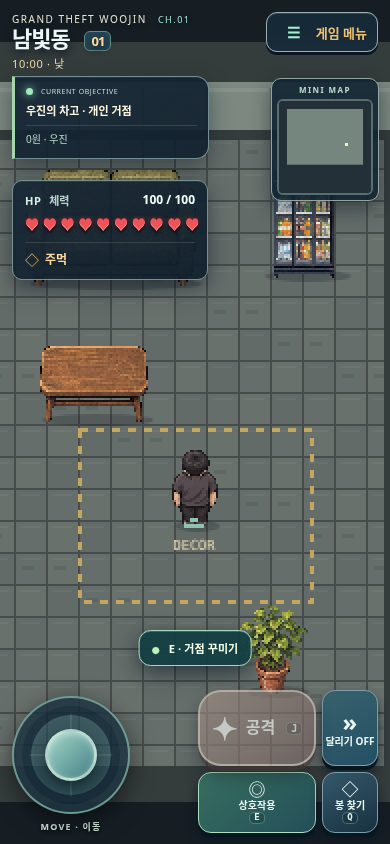
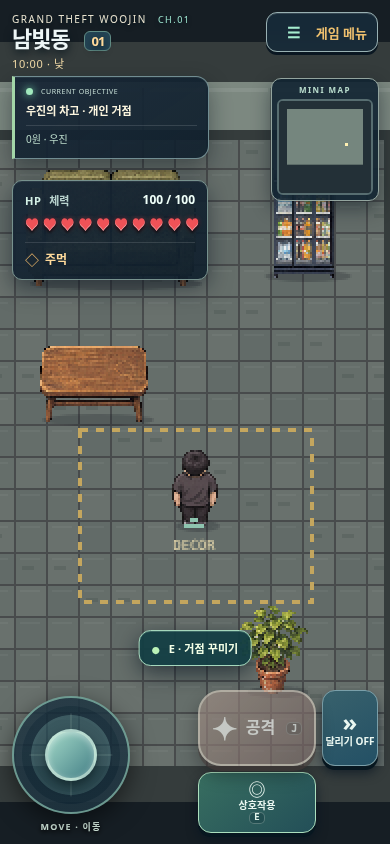
Add typed motorcycle and delivery van fleet with safe garage selection and legacy sedan saves

Changed region(s): [[0.8, 0.8934, 0.9846, 0.9858]]

diff --git a/dist/city.js b/dist/city.js
@@ -1,8 +1,10 @@
 'use strict';
 (async()=>{try{await CitySprites.ready}catch(error){document.getElementById('artLoading').textContent=error.message+' 새로고침해서 다시 시도해줘.';return}document.getElementById('artLoading').hidden=true;const S=CitySprites;const $=id=>document.getElementById(id),canvas=$('city'),ctx=canvas.getContext('2d'),A=CityArt,R=A.R,SIZE=1200,KEY='gtw-city-v1';let zoom=2,active=true,paused=false,last=0,acc=0,clock=0,saveClock=0,audio,sprintEnabled=false;
-const keys={},joy={x:0,y:0},camera={x:0,y:0},p={x:250,y:355,vx:0,vy:0,dir:2,walk:0,emotion:0},car={x:445,y:320,a:0,speed:0},state={mission:0,money:0,driving:false},buildings=[{x:110,y:130,w:250,h:170,color:'#46786c',name:'NAMBIt 24 · 편의점'},{x:650,y:120,w:310,h:190,color:'#a77e62',name:'NAMBIT RECORDS'},{x:115,y:700,w:250,h:210,color:'#677a8b',name:'남빛 주택'},{x:730,y:740,w:300,h:200,color:'#9a755e',name:'WOOJIN GARAGE'}],trees=[{x:700,y:510},{x:1030,y:530},{x:1010,y:650},{x:700,y:660},{x:110,y:460},{x:220,y:490}],npcs=[{name:'민수',x:290,y:340,home:{x:290,y:340},coat:'#bc9168',dir:2,wait:2,route:[[290,340],[340,340]],i:0},{name:'지수',x:850,y:640,home:{x:850,y:640},coat:'#a88b9c',dir:3,wait:0,route:[[850,640],[940,640],[940,570],[850,570]],i:0},{name:'도윤',x:190,y:970,home:{x:190,y:970},coat:'#6e8fae',dir:0,wait:0,route:[[190,970],[340,970]],i:0}];
+let car={x:445,y:320,a:0,speed:0};
+const keys={},joy={x:0,y:0},camera={x:0,y:0},p={x:250,y:355,vx:0,vy:0,dir:2,walk:0,emotion:0},state={mission:0,money:0,driving:false},buildings=[{x:110,y:130,w:250,h:170,color:'#46786c',name:'NAMBIt 24 · 편의점'},{x:650,y:120,w:310,h:190,color:'#a77e62',name:'NAMBIT RECORDS'},{x:115,y:700,w:250,h:210,color:'#677a8b',name:'남빛 주택'},{x:730,y:740,w:300,h:200,color:'#9a755e',name:'WOOJIN GARAGE'}],trees=[{x:700,y:510},{x:1030,y:530},{x:1010,y:650},{x:700,y:660},{x:110,y:460},{x:220,y:490}],npcs=[{name:'민수',x:290,y:340,home:{x:290,y:340},coat:'#bc9168',dir:2,wait:2,route:[[290,340],[340,340]],i:0},{name:'지수',x:850,y:640,home:{x:850,y:640},coat:'#a88b9c',dir:3,wait:0,route:[[850,640],[940,640],[940,570],[850,570]],i:0},{name:'도윤',x:190,y:970,home:{x:190,y:970},coat:'#6e8fae',dir:0,wait:0,route:[[190,970],[340,970]],i:0}];
 const obstacles=buildings.map(b=>({x:b.x,y:b.y+12,w:b.w,h:b.h})).concat(trees.map(t=>({x:t.x+19,y:t.y+37,w:9,h:17})),[{x:780,y:580,w:60,h:12},{x:100,y:345,w:16,h:24}]);buildings.forEach((b,i)=>b.art=i<2?S.images[i===0?'store':'records']:A.building(b.w,b.h,b.color,b.name));npcs.forEach((n,i)=>{n.id='civilian-'+i;n.role=['npc-1','npc-2','npc-0'][i];n.walk=0;n.moving=false});npcs[2].x=185;npcs[2].y=342;npcs[2].route=[[185,342],[225,342]];npcs[2].home={x:185,y:342};
 npcs.push(...CityResidents.make());
+const fleet=CityVehicles.create({sedan:car,blocked:worldBlocked});car=fleet.active;
 let activeResident=null;
 const cityTime=CityTime.create(),rooms=CityInteriors.create();
 let interiorService=false;
@@ -19,45 +21,48 @@ function canAttack(){return !rooms.current&&!rooms.busy&&active&&!paused&&$('dia
 function attack(){if(!canAttack())return false;const x=(keys.d||keys.ArrowRight?1:0)-(keys.a||keys.ArrowLeft?1:0)+joy.x,y=(keys.s||keys.ArrowDown?1:0)-(keys.w||keys.ArrowUp?1:0)+joy.y;const dir=Math.hypot(x,y)>.15?(Math.abs(x)>Math.abs(y)?x>0?1:3:y>0?2:0):p.dir;const accepted=combat.attack(dir);if(accepted)p.gesture=p.emotion=0;return accepted}
 function changeWeapon(){if(!canAttack())return;if(!combat.clubUnlocked){combatView.show('남쪽 골목 대련장 입구의 공구함에서 나무봉을 가져와.');return}if(combat.setWeapon(combat.weapon==='fist'?'club':'fist')){combatView.show(combat.weapon==='club'?'나무봉 · 넓은 범위, 긴 준비와 회복':'주먹 · 빠른 준비와 회복');save()}hud()}
 
-function blocked(x,y,r=8){return rooms.current?rooms.blocked(x,y,r):worldBlocked(x,y,r)}
+function exteriorBlocked(x,y,r=8,ignore){return worldBlocked(x,y,r)||fleet.obstructed(x,y,r,ignore)}
+function blocked(x,y,r=8,ignore){return rooms.current?rooms.blocked(x,y,r):exteriorBlocked(x,y,r,ignore)}
 function worldBlocked(x,y,r=8){return x<r||y<r||x>SIZE-r||y>SIZE-r||obstacles.some(o=>x+r>o.x&&x-r<o.x+o.w&&y+r>o.y&&y-r<o.y+o.h)}
-function move(o,dx,dy,r){const n=Math.max(1,Math.ceil(Math.hypot(dx,dy)/4));let hit=false;for(let i=0;i<n;i++){if(!blocked(o.x+dx/n,o.y,r))o.x+=dx/n;else hit=true;if(!blocked(o.x,o.y+dy/n,r))o.y+=dy/n;else hit=true}return hit}
-function serial(){return{version:1,p:rooms.current?{...rooms.outside,dir:2}:{x:p.x,y:p.y,dir:p.dir},interior:rooms.save(p),home:home.save(),car:{...car,speed:0},mission:state.mission,money:state.money,zoom,sound:$('sound').checked,combat:combat.save(),activities:activities.save(),worldTime:cityTime.save()}}
+function move(o,dx,dy,r){const n=Math.max(1,Math.ceil(Math.hypot(dx,dy)/4));let hit=false;for(let i=0;i<n;i++){if(!blocked(o.x+dx/n,o.y,r,o))o.x+=dx/n;else hit=true;if(!blocked(o.x,o.y+dy/n,r,o))o.y+=dy/n;else hit=true}return hit}
+function serial(){return{version:1,p:rooms.current?{...rooms.outside,dir:2}:{x:p.x,y:p.y,dir:p.dir},interior:rooms.save(p),home:home.save(),car:{...fleet.cars.find(c=>c.type==='sedan'),speed:0},vehicles:fleet.save(),mission:state.mission,money:state.money,zoom,sound:$('sound').checked,combat:combat.save(),activities:activities.save(),worldTime:cityTime.save()}}
 function save(){try{const value=JSON.stringify(serial());localStorage.setItem(KEY+'-backup',localStorage.getItem(KEY)||value);localStorage.setItem(KEY,value);$('saveStatus').textContent='저장 완료'}catch{$('saveStatus').textContent='저장 공간을 사용할 수 없어. 이번 진행은 기기에서 보존되지 않을 수 있어.'}}
-function restore(){for(const key of[KEY,KEY+'-backup'])try{const s=JSON.parse(localStorage.getItem(key));if(s?.version!==1||!Number.isFinite(s.p?.x)||!Number.isFinite(s.p?.y))continue;if(!blocked(s.p.x,s.p.y)){p.x=s.p.x;p.y=s.p.y}if(s.car&&Number.isFinite(s.car.a)&&Number.isFinite(s.car.x)&&Number.isFinite(s.car.y)&&!blocked(s.car.x,s.car.y,30)){Object.assign(car,s.car);car.speed=0}state.mission=[0,1,2,3].includes(s.mission)?s.mission:0;state.money=Number.isFinite(s.money)?clamp(s.money,0,1e9):0;zoom=[1.5,2,3].includes(s.zoom)?s.zoom:2;$('zoom').value=zoom;$('sound').checked=s.sound!==false;combat.load(s.combat);activities.load(s.activities);cityTime.load(s.worldTime);home.load(s.home);rooms.setFurniture(home.items);rooms.load(s.interior);if(rooms.current)Object.assign(p,rooms.position);$('dayLength').value=cityTime.save().dayMinutes;return}catch{}}
+function restore(){rooms.load(null);state.driving=false;for(const key of[KEY,KEY+'-backup'])try{const s=JSON.parse(localStorage.getItem(key));if(s?.version!==1||!Number.isFinite(s.p?.x)||!Number.isFinite(s.p?.y))continue;if(!blocked(s.p.x,s.p.y)){p.x=s.p.x;p.y=s.p.y;p.dir=[0,1,2,3].includes(s.p.dir)?s.p.dir:2;p.vx=p.vy=0}fleet.load(s.vehicles,s.car);car=fleet.active;if(blocked(p.x,p.y,8)){const near=fleet.cars.find(c=>Math.hypot(c.x-p.x,c.y-p.y)<CityVehicles.types[c.type].radius+10),exit=near&&fleet.exitCandidates(near).find(e=>!blocked(e.x,e.y,9));if(exit)Object.assign(p,exit);else Object.assign(p,{x:250,y:355})}state.mission=[0,1,2,3].includes(s.mission)?s.mission:0;state.money=Number.isFinite(s.money)?clamp(s.money,0,1e9):0;zoom=[1.5,2,3].includes(s.zoom)?s.zoom:2;$('zoom').value=zoom;$('sound').checked=s.sound!==false;combat.load(s.combat);activities.load(s.activities);cityTime.load(s.worldTime);home.load(s.home);rooms.setFurniture(home.items);rooms.load(s.interior);if(rooms.current)Object.assign(p,rooms.position);$('dayLength').value=cityTime.save().dayMinutes;return}catch{}}
 function mapSize(){return rooms.current?{w:rooms.current.w,h:rooms.current.h}:{w:SIZE,h:SIZE}}
 function cameraAxis(value,size,view){return rooms.current&&size<view?(size-view)/2:clamp(value,0,Math.max(0,size-view))}
 function resize(){canvas.width=Math.max(160,Math.floor(innerWidth/zoom));canvas.height=Math.max(180,Math.floor(innerHeight/zoom));ctx.imageSmoothingEnabled=false;camera.x=cameraAxis(camera.x,mapSize().w,canvas.width);camera.y=cameraAxis(camera.y,mapSize().h,canvas.height)}
 function beep(){if(!$('sound').checked)return;try{audio??=new AudioContext();audio.resume();const o=audio.createOscillator(),g=audio.createGain();o.frequency.value=510;g.gain.value=.018;o.connect(g);g.connect(audio.destination);o.start();g.gain.exponentialRampToValueAtTime(.001,audio.currentTime+.12);o.stop(audio.currentTime+.13)}catch{}}
-function say(t){interiorService=false;activeResident=null;$('service').hidden=true;$('activityAction').hidden=true;if(!state.driving)p.gesture=.55;$('dialogText').textContent=t;$('dialog').hidden=false;clearInput();$('ok').focus?.({preventScroll:true});beep()}
+function say(t){for(const id of ['fleetSedan','fleetMotorcycle','fleetVan'])$(id).hidden=true;interiorService=false;activeResident=null;$('service').hidden=true;$('activityAction').hidden=true;if(!state.driving)p.gesture=.55;$('dialogText').textContent=t;$('dialog').hidden=false;clearInput();$('ok').focus?.({preventScroll:true});beep()}
 function closeDialog(){if($('dialog').hidden)return;$('dialog').hidden=true;interiorService=false;activeResident=null;hud();canvas.focus?.({preventScroll:true})}
 function interact(){if(paused||!active||rooms.busy||!$('dialog').hidden||p.fight.mode!=='idle')return;
-if(rooms.current){const target=rooms.target(p);if(!target)return;if(target.id==='exit'){if(rooms.exit(worldBlocked)){clearInput();save()}else combatView.show('출구 앞 공간이 막혀 있어.');return}if(target.id==='shop'){say('남빛24 직원: 주먹밥은 30원이야. 체력을 35 회복해.');interiorService=true;$('service').textContent='주먹밥 · 30원';$('service').hidden=false;return}if(target.id==='workbench'){combat.heal(100);say('내 차고야. 작업대에서 잠깐 쉬었어. 체력을 회복했어.');save();return}if(target.id==='decor'){homeView.open();return}say('차량 보관 공간이야.');return}
-const door=rooms.nearDoor(p);if(door&&!state.driving&&!combat.engaged){rooms.enter(door.id,p);clearInput();return}
+if(rooms.current){const target=rooms.target(p);if(!target)return;if(target.id==='exit'){if(rooms.exit(exteriorBlocked)){clearInput();save()}else combatView.show('출구 앞 공간이 막혀 있어.');return}if(target.id==='shop'){say('남빛24 직원: 주먹밥은 30원이야. 체력을 35 회복해.');interiorService=true;$('service').textContent='주먹밥 · 30원';$('service').hidden=false;return}if(target.id==='workbench'){combat.heal(100);say('내 차고야. 작업대에서 잠깐 쉬었어. 체력을 회복했어.');save();return}if(target.id==='decor'){homeView.open();return}say('보관 차량을 고르면 차고 앞 안전한 공간에 준비해둘게. 현재: '+CityVehicles.types[car.type].name);for(const id of ['fleetSedan','fleetMotorcycle','fleetVan'])$(id).hidden=false;return}
+
 if(state.driving){vehicle();return}
 if(combat.engaged){combatView.show('대련 중이야. 구역 밖으로 물러나면 대련을 멈출 수 있어.');return}
 if(!combat.clubUnlocked&&distance(p,{x:280,y:560})<42){combat.unlockClub();combatView.show('짧은 나무봉을 얻었어! Q / 무기 버튼으로 바꿀 수 있어.');save();hud();return}
-if(distance(p,car)<65){vehicle();hud();return}
+
 const foe=enemies.find(e=>distance(p,e)<48);if(foe){combat.start(foe);clearInput();hud();return}
 if(activities.collect(p)){combatView.show('확인 완료 · '+activities.target().name);save();hud();return}
+const door=rooms.nearDoor(p);if(door&&!state.driving&&!combat.engaged){rooms.enter(door.id,p);clearInput();return}
+if(fleet.nearest(p)){vehicle();hud();return}
 const n=npcs.filter(n=>n.fight.hp>0&&distance(p,n)<52).sort((a,b)=>distance(p,a)-distance(p,b))[0];if(n){if(n.kind){const info=CityResidents.describe(n,{state,combat});say(info.text);activeResident=n;if(info.action){$('service').textContent=info.action;$('service').hidden=false;}const id=Object.keys(CityActivities.jobs).find(id=>CityActivities.jobs[id].npc===n.kind);if(id){$('activityAction').textContent=activities.label(id);$('activityAction').hidden=false;}return;}p.dir=Math.abs(n.x-p.x)>Math.abs(n.y-p.y)?n.x>p.x?1:3:n.y>p.y?2:0;if(n===npcs[0]){if(state.mission===0){state.mission=1;say('민수: 공원 벤치 옆에 두고 온 레코드 가방 좀 가져다줄래? 사례는 500원이야.')}else if(state.mission===2){state.mission=3;state.money+=500;p.emotion=1.3;say('민수: 찾았구나! 정말 고마워. 500원을 받았어. 이제 자유롭게 동네를 둘러봐.')}else say(state.mission===3?'민수: 오늘은 덕분에 살았어. 또 보자!':'민수: 공원 벤치 오른쪽, 노란 가방이야.')}else say(n.name+': '+(n===npcs[1]?'공원에서는 천천히 걸어줘. 편의점 앞 차는 E로 탈 수 있어.':'남빛24 직원이야. 남쪽 골목의 태오에게 대련을 배울 수 있어. J로 공격하고 Q로 무기를 바꿔봐.'));save();return}
  if(state.mission===1&&distance(p,{x:860,y:600})<45){state.mission=2;p.emotion=.8;say('레코드 가방을 찾았어! 편의점 앞 민수에게 돌아가자.');save();return}
  if(distance(p,{x:235,y:318})<45)say('남빛24 · 오늘도 열려 있어. 첫 배달은 민수에게 부탁받아 봐.')}
-function vehicle(){if(rooms.current||rooms.busy)return;if(paused||!active||!$('dialog').hidden||combat.engaged||p.fight.mode!=='idle')return;if(state.driving){if(Math.abs(car.speed)>12){say('차를 멈춘 다음 내려줘.');return}const exits=[[42,0],[-42,0],[0,44],[0,-44]].map(([x,y])=>({x:car.x+x,y:car.y+y}));const e=exits.find(e=>!blocked(e.x,e.y,9));if(!e){say('내릴 공간이 없어. 조금 이동해줘.');return}p.transition={x:car.x,y:car.y,time:.35,enter:false};p.x=e.x;p.y=e.y;state.driving=false;car.speed=0;p.emotion=.5;save()}else if(distance(p,car)<65){p.transition={x:p.x,y:p.y,time:.35,enter:true};state.driving=true;p.vx=p.vy=0;p.emotion=.5;beep()}}
+function vehicle(){if(rooms.current||rooms.busy)return;if(paused||!active||!$('dialog').hidden||combat.engaged||p.fight.mode!=='idle')return;if(state.driving){if(Math.abs(car.speed)>12){say('차를 멈춘 다음 내려줘.');return}const exits=fleet.exitCandidates(car);const e=exits.find(e=>!blocked(e.x,e.y,9));if(!e){say('내릴 공간이 없어. 조금 이동해줘.');return}p.transition={x:car.x,y:car.y,time:.35,enter:false};p.x=e.x;p.y=e.y;state.driving=false;car.speed=0;p.emotion=.5;save()}else if(fleet.nearest(p)){car=fleet.select(fleet.nearest(p).id);p.transition={x:p.x,y:p.y,time:.35,enter:true};state.driving=true;p.vx=p.vy=0;p.emotion=.5;beep()}}
 function clearInput(){Object.keys(keys).forEach(k=>keys[k]=false);joy.x=joy.y=0;combat.suspend();$('stick').firstElementChild.style.transform=''}
 function pause(value){paused=value;$('pause').hidden=!paused;clearInput();if(paused)save()}
 function tick(dt){if(!active||paused||homeView.opened||!$('dialog').hidden)return;clock+=dt;cityTime.step(dt);saveClock+=dt;combatView.update(dt);if(rooms.busy){if(rooms.step(dt)){Object.assign(p,rooms.position);p.vx=p.vy=0;camera.x=cameraAxis(p.x-canvas.width/2,mapSize().w,canvas.width);camera.y=cameraAxis(p.y-canvas.height/2,mapSize().h,canvas.height);clearInput();save()}hud();return;}if(keys.attack)attack();if(p.transition)p.transition.time=Math.max(0,p.transition.time-dt);let x=(keys.d||keys.ArrowRight?1:0)-(keys.a||keys.ArrowLeft?1:0)+joy.x,y=(keys.s||keys.ArrowDown?1:0)-(keys.w||keys.ArrowUp?1:0)+joy.y;const mag=Math.hypot(x,y);if(mag>1){x/=mag;y/=mag}
- if(state.driving){const throttle=keys.brake?-1:keys.attack?1:-y;car.speed+=throttle*110*dt;car.speed*=Math.exp(-(throttle?.65:2.8)*dt);car.speed=clamp(car.speed,-50,155);car.a+=x*(Math.max(0.24,Math.abs(car.speed)/115))*1.65*dt*(car.speed<0?-1:1);const dx=Math.sin(car.a)*car.speed*dt,dy=-Math.cos(car.a)*car.speed*dt;if(move(car,dx,dy,30)){car.speed*=-.12;p.emotion=.7}p.x=car.x;p.y=car.y}else{const speed=sprintEnabled?94:57,blend=1-Math.exp(-13*dt);p.vx+=(x*speed-p.vx)*blend;p.vy+=(y*speed-p.vy)*blend;const oldX=p.x,oldY=p.y;move(p,p.vx*dt*combat.movementScale(),p.vy*dt*combat.movementScale(),8);const moved=Math.hypot(p.x-oldX,p.y-oldY);p.moving=moved>.02;if(mag>.1&&!p.fight.attack&&p.fight.mode==='idle'){p.dir=Math.abs(x)>Math.abs(y)?x>0?1:3:y>0?2:0;p.walk+=moved*.12}}
+ if(state.driving){const throttle=keys.brake?-1:keys.attack?1:-y;const {dx,dy}=fleet.motion(car,throttle,x,dt);if(move(car,dx,dy,CityVehicles.types[car.type].radius)){car.speed*=-.12;p.emotion=.7}p.x=car.x;p.y=car.y}else{const speed=sprintEnabled?94:57,blend=1-Math.exp(-13*dt);p.vx+=(x*speed-p.vx)*blend;p.vy+=(y*speed-p.vy)*blend;const oldX=p.x,oldY=p.y;move(p,p.vx*dt*combat.movementScale(),p.vy*dt*combat.movementScale(),8);const moved=Math.hypot(p.x-oldX,p.y-oldY);p.moving=moved>.02;if(mag>.1&&!p.fight.attack&&p.fight.mode==='idle'){p.dir=Math.abs(x)>Math.abs(y)?x>0?1:3:y>0?2:0;p.walk+=moved*.12}}
  if(!rooms.current)combat.step(dt);
- activities.step(dt);if(!rooms.current)for(const n of npcs)if(n.brain==='idle'&&n.fight.mode==='idle'&&!cityTime.resting(n.kind))CityResidents.step(n,dt,{player:p,combat,move});
+ activities.step(dt);if(!rooms.current)for(const n of npcs)if(n.brain==='idle'&&n.fight.mode==='idle'){if(cityTime.resting(n.kind))n.moving=false;else CityResidents.step(n,dt,{player:p,combat,move});}
  const target=state.driving?car:p,look=state.driving?car.speed*.3:0;const tx=cameraAxis(target.x+Math.sin(car.a)*look-canvas.width/2,mapSize().w,canvas.width),ty=cameraAxis(target.y-Math.cos(car.a)*look-canvas.height/2,mapSize().h,canvas.height);camera.x+=(tx-camera.x)*(1-Math.exp(-6*dt));camera.y+=(ty-camera.y)*(1-Math.exp(-6*dt));if(saveClock>5){saveClock=0;save()}hud()}
 const objectives=['편의점 앞 민수에게 말을 걸어봐.','공원 벤치 옆 레코드 가방 찾기','가방을 민수에게 전달하기','배달 완료 · 남빛동 자유 탐험'];
 function hud(){
  const timeLabel=cityTime.label();if($('worldClock').textContent!==timeLabel)$('worldClock').textContent=timeLabel;
  $('attack').disabled=!!rooms.current||rooms.busy;combatView.hud();const a=activities.active,t=activities.target();$('activityHud').hidden=!a;if(a){const title=CityActivities.jobs[a.id].name,goal=t.name+' · '+Math.floor(Math.hypot(p.x-t.x,p.y-t.y))+'m';if($('activityTitle').textContent!==title)$('activityTitle').textContent=title;if($('activityGoal').textContent!==goal)$('activityGoal').textContent=goal;}
  const objective=rooms.current?rooms.current.name:objectives[state.mission],money=state.money.toLocaleString('ko-KR')+'원 · '+(state.driving?'운전 중':'우진');
- const hint=rooms.current?(rooms.target(p)?.label||'') : !state.driving&&rooms.nearDoor(p)?'E · '+rooms.nearDoor(p).name+' 입장':state.driving?'↑ / 공격 가속 · ↓ / 브레이크 감속 · ← → 조향 · E 하차':
-   distance(p,car)<65?'E · 차량 타기':activities.active&&activities.active.index<CityActivities.jobs[activities.active.id].points.length&&distance(p,activities.target())<32?'E · 현장 확인':
+ const hint=rooms.current?(rooms.target(p)?.label||'') : !state.driving&&activities.active&&activities.active.index<CityActivities.jobs[activities.active.id].points.length&&distance(p,activities.target())<32?'E · 현장 확인':!state.driving&&rooms.nearDoor(p)?'E · '+rooms.nearDoor(p).name+' 입장':state.driving?'↑ / 공격 가속 · ↓ / 브레이크 감속 · ← → 조향 · E 하차':
+   fleet.nearest(p)?'E · '+CityVehicles.types[fleet.nearest(p).type].name+' 탑승':activities.active&&activities.active.index<CityActivities.jobs[activities.active.id].points.length&&distance(p,activities.target())<32?'E · 현장 확인':
    npcs.some(n=>n.fight.hp>0&&distance(p,n)<52)?'E · 대화하기':
    state.mission===1&&distance(p,{x:860,y:600})<45?'E · 레코드 가방 줍기':
    enemies.some(e=>distance(p,e)<48)?'E · 대련 시작 / 재도전':
@@ -67,11 +72,11 @@ function hud(){
  if($('money').textContent!==money)$('money').textContent=money;
  if($('prompt').textContent!==hint)$('prompt').textContent=hint;
  const interactLabel=$('interact').querySelector?.('.action-label');
- if(interactLabel){const label=state.driving?'하차':hint.includes('줍기')?'줍기':hint.includes('대련')?'대련':hint.includes('나무봉')?'획득':hint.includes('차량')?'탑승':hint.includes('대화')?'대화':'상호작용';if(interactLabel.textContent!==label)interactLabel.textContent=label;}
+ if(interactLabel){const label=state.driving?'하차':hint.includes('입장')?'입장':hint.includes('나가기')?'나가기':hint.includes('탑승')?'탑승':hint.includes('줍기')?'줍기':hint.includes('대련')?'대련':hint.includes('나무봉')?'획득':hint.includes('차량')?'탑승':hint.includes('대화')?'대화':'상호작용';if(interactLabel.textContent!==label)interactLabel.textContent=label;}
  const attackLabel=$('attack').querySelector?.('.action-label');if(attackLabel&&attackLabel.textContent!==(state.driving?'가속':'공격'))attackLabel.textContent=state.driving?'가속':'공격';
  const runLabel=$('run').querySelector?.('.action-label'),runText=state.driving?'브레이크':sprintEnabled?'달리기 ON':'달리기 OFF';if(runLabel&&runLabel.textContent!==runText)runLabel.textContent=runText;
  const pressed=String(!state.driving&&sprintEnabled),runButton=$('run');if(runButton.getAttribute?.('aria-pressed')!==pressed)runButton.setAttribute?.('aria-pressed',pressed);
- const weaponButton=$('weapon');if(weaponButton.hidden!==state.driving)weaponButton.hidden=state.driving;
+ const weaponButton=$('weapon'),hideWeapon=state.driving||!!rooms.current;if(weaponButton.hidden!==hideWeapon)weaponButton.hidden=hideWeapon;
  const actions=$('attack').parentElement;if(actions?.classList?.contains('driving')!==state.driving)actions?.classList?.toggle('driving',state.driving);
 }
 const ground=CityGround(A,SIZE);
@@ -86,14 +91,14 @@ const streetProps=[
 obstacles.push({x:308,y:363,w:36,h:6},{x:325,y:332,w:12,h:10},{x:660,y:542,w:12,h:10},...[ [370,350],[620,530],[80,650],[1100,400] ].map(([x,y])=>({x,y:y-2,w:5,h:6})));
 function drawPerson(n,hero=false){if(hero&&combatView.playerPose(ctx))return;const trans=hero&&p.transition?.time>0?p.transition:null;let x=n.x,y=n.y;if(trans){const a=1-trans.time/.35;x=trans.x+(n.x-trans.x)*a;y=trans.y+(n.y-trans.y)*a;ctx.globalAlpha=trans.enter?1-a:1;}if(n.civilian&&n.fight.mode==='down')ctx.globalAlpha=.32;else if(n.civilian&&n.fight.mode==='hurt')ctx.globalAlpha=.7;S.shadow(ctx,x,y,hero?11:9);const pose=trans?S.action(n.dir,trans.enter?2:3):hero&&p.gesture>0?S.action(n.dir,p.gesture>.28?0:1):hero&&p.emotion>0?S.action(n.dir,4):S.person(n.dir,n.walk,n.moving,hero&&sprintEnabled,hero?'woojin':n.role);ctx.drawImage(pose,Math.round(x)-20,Math.round(y)-44);ctx.globalAlpha=1;if(hero&&p.emotion>0){R(ctx,x-1,y-52,2,5,'#ffe4a1');R(ctx,x-1,y-45,2,1,'#ffe4a1')}}
 function transitionOverlay(){if(!rooms.busy)return;ctx.fillStyle='rgba(10,17,23,'+rooms.fade+')';ctx.fillRect(0,0,canvas.width,canvas.height)}
-function drawInterior(){CityInteriors.draw(ctx,rooms.current,{p,camera,canvas,S,drawPerson,furniture:home.items});const m=$('map').getContext('2d'),room=rooms.current;m.fillStyle='#233037';m.fillRect(0,0,144,144);const scale=120/Math.max(room.w,room.h);R(m,12,12,room.w*scale,room.h*scale,'#75867e');R(m,12+p.x*scale-2,12+p.y*scale-2,4,4,'#fff0b2');transitionOverlay()}
-function draw(){if(rooms.current){drawInterior();return}ctx.clearRect(0,0,canvas.width,canvas.height);ctx.save();ctx.translate(-Math.round(camera.x)+(combatView.impact>0?Math.round(Math.sin(clock*90)):0),-Math.round(camera.y));ctx.drawImage(ground,0,0);combatView.ground(ctx);const activityTarget=activities.target();if(activityTarget){ctx.strokeStyle='#8fcabb';ctx.lineWidth=2;ctx.setLineDash([4,3]);ctx.beginPath();ctx.arc(activityTarget.x,activityTarget.y,15,0,Math.PI*2);ctx.stroke();ctx.setLineDash([]);ctx.fillStyle='#d1f2df';ctx.font='8px monospace';ctx.textAlign='center';ctx.fillText(activities.active.index<CityActivities.jobs[activities.active.id].points.length?'E · 확인':'NPC에게 보고',activityTarget.x,activityTarget.y-23);}for(const b of buildings){ctx.fillStyle='#20233338';ctx.beginPath();ctx.moveTo(b.x+3,b.y+b.h+8);ctx.lineTo(b.x+b.w,b.y+b.h+8);ctx.lineTo(b.x+b.w+14,b.y+b.h+20);ctx.lineTo(b.x+17,b.y+b.h+20);ctx.fill()}const render=streetProps.map(o=>({y:o.foot,draw(){ctx.fillStyle='#20273530';ctx.beginPath();ctx.ellipse(o.x+o.w/2+5,o.foot-1,o.w/2,3,0,0,Math.PI*2);ctx.fill();ctx.drawImage(S.images[o.name],o.x,o.y,o.w,o.h)}}));buildings.forEach(b=>render.push({y:b.y+b.h,draw(){const behind=p.x>b.x-10&&p.x<b.x+b.w+10&&p.y>b.y-30&&p.y<b.y+20;ctx.globalAlpha=behind?.42:1;ctx.drawImage(b.art,b.x,b.y);ctx.globalAlpha=1}}));trees.forEach((t,i)=>render.push({y:t.y+52,draw(){ctx.globalAlpha=Math.abs(p.x-(t.x+24))<27&&p.y>t.y-33&&p.y<t.y+45?.4:1;S.shadow(ctx,t.x+24,t.y+52,28);const im=S.images[i%2?'tree-b':'tree-a'];ctx.drawImage(im,Math.round(t.x+24-im.width/2),t.y+52-im.height);ctx.globalAlpha=1}}));npcs.forEach(n=>render.push({y:n.y,draw(){drawPerson(n);if(n.kind&&distance(p,n)<70){ctx.font='7px monospace';ctx.textAlign='center';ctx.fillStyle='#f5dfab';ctx.fillText(n.name,Math.round(n.x),Math.round(n.y)-48)}if(n===npcs[0]&&state.mission!==3){R(ctx,n.x-2,n.y-57,3,7,'#f0cc7d');R(ctx,n.x-2,n.y-48,3,2,'#f0cc7d')}}}));render.push({y:car.y+20,draw(){ctx.save();ctx.translate(Math.round(car.x),Math.round(car.y));ctx.rotate(car.a);ctx.fillStyle='#1b243445';ctx.fillRect(-15,-25,34,58);ctx.drawImage(S.images.sedan,-17,-29);ctx.restore()}});enemies.forEach(e=>render.push({y:e.y,draw(){combatView.enemy(ctx,e)}}));if(!state.driving||p.transition?.time>0)render.push({y:p.y+1,draw(){drawPerson(p,true)}});if(state.mission===1)render.push({y:601,draw(){S.shadow(ctx,861,601,8);R(ctx,854,590,14,11,'#b98d53');R(ctx,855,591,12,8,'#d8b577');R(ctx,857,587,8,4,'#624d3e');R(ctx,859,589,4,2,'#b7a582');R(ctx,860,593,2,6,'#735a43');R(ctx,860,594,2,2,'#e4d4a2')}});render.sort((a,b)=>a.y-b.y).forEach(o=>o.draw());combatView.overlay(ctx);CityTime.draw(ctx,cityTime,{camera,width:canvas.width,height:canvas.height,lamps:streetProps.filter(o=>o.name==='lamp').map(o=>({x:o.x+2,y:o.foot-4})),buildings});ctx.restore();const m=$('map').getContext('2d'),s=144/SIZE;m.fillStyle='#8a9885';m.fillRect(0,0,144,144);R(m,390*s,0,210*s,144,'#35484e');R(m,0,395*s,144,100*s,'#35484e');buildings.forEach(b=>R(m,b.x*s,b.y*s,b.w*s,b.h*s,'#c0b395'));R(m,p.x*s-2,p.y*s-2,4,4,'#fff6ca');const at=activities.target();if(at)R(m,at.x*s-3,at.y*s-3,6,6,'#8fcabb');const goal=state.mission===1?{x:860,y:600}:npcs[0];if(state.mission!==3)R(m,goal.x*s-2,goal.y*s-2,4,4,'#e19b64');transitionOverlay()}
+function drawInterior(){CityInteriors.draw(ctx,rooms.current,{p,camera,canvas,S,drawPerson,furniture:home.items,fleetArt:CityVehicles.types[car.type].art});const m=$('map').getContext('2d'),room=rooms.current;m.fillStyle='#233037';m.fillRect(0,0,144,144);const scale=120/Math.max(room.w,room.h);R(m,12,12,room.w*scale,room.h*scale,'#75867e');R(m,12+p.x*scale-2,12+p.y*scale-2,4,4,'#fff0b2');transitionOverlay()}
+function draw(){if(rooms.current){drawInterior();return}ctx.clearRect(0,0,canvas.width,canvas.height);ctx.save();ctx.translate(-Math.round(camera.x)+(combatView.impact>0?Math.round(Math.sin(clock*90)):0),-Math.round(camera.y));ctx.drawImage(ground,0,0);combatView.ground(ctx);const activityTarget=activities.target();if(activityTarget){ctx.strokeStyle='#8fcabb';ctx.lineWidth=2;ctx.setLineDash([4,3]);ctx.beginPath();ctx.arc(activityTarget.x,activityTarget.y,15,0,Math.PI*2);ctx.stroke();ctx.setLineDash([]);ctx.fillStyle='#d1f2df';ctx.font='8px monospace';ctx.textAlign='center';ctx.fillText(activities.active.index<CityActivities.jobs[activities.active.id].points.length?'E · 확인':'NPC에게 보고',activityTarget.x,activityTarget.y-23);}for(const b of buildings){ctx.fillStyle='#20233338';ctx.beginPath();ctx.moveTo(b.x+3,b.y+b.h+8);ctx.lineTo(b.x+b.w,b.y+b.h+8);ctx.lineTo(b.x+b.w+14,b.y+b.h+20);ctx.lineTo(b.x+17,b.y+b.h+20);ctx.fill()}const render=streetProps.map(o=>({y:o.foot,draw(){ctx.fillStyle='#20273530';ctx.beginPath();ctx.ellipse(o.x+o.w/2+5,o.foot-1,o.w/2,3,0,0,Math.PI*2);ctx.fill();ctx.drawImage(S.images[o.name],o.x,o.y,o.w,o.h)}}));buildings.forEach(b=>render.push({y:b.y+b.h,draw(){const behind=p.x>b.x-10&&p.x<b.x+b.w+10&&p.y>b.y-30&&p.y<b.y+20;ctx.globalAlpha=behind?.42:1;ctx.drawImage(b.art,b.x,b.y);ctx.globalAlpha=1}}));trees.forEach((t,i)=>render.push({y:t.y+52,draw(){ctx.globalAlpha=Math.abs(p.x-(t.x+24))<27&&p.y>t.y-33&&p.y<t.y+45?.4:1;S.shadow(ctx,t.x+24,t.y+52,28);const im=S.images[i%2?'tree-b':'tree-a'];ctx.drawImage(im,Math.round(t.x+24-im.width/2),t.y+52-im.height);ctx.globalAlpha=1}}));npcs.forEach(n=>render.push({y:n.y,draw(){drawPerson(n);if(n.kind&&distance(p,n)<70){ctx.font='7px monospace';ctx.textAlign='center';ctx.fillStyle='#f5dfab';ctx.fillText(n.name,Math.round(n.x),Math.round(n.y)-48)}if(n===npcs[0]&&state.mission!==3){R(ctx,n.x-2,n.y-57,3,7,'#f0cc7d');R(ctx,n.x-2,n.y-48,3,2,'#f0cc7d')}}}));fleet.cars.forEach(c=>render.push({y:c.y+20,draw(){CityVehicles.draw(ctx,c,S,state.driving&&c===car)}}));enemies.forEach(e=>render.push({y:e.y,draw(){combatView.enemy(ctx,e)}}));if(!state.driving||p.transition?.time>0)render.push({y:p.y+1,draw(){drawPerson(p,true)}});if(state.mission===1)render.push({y:601,draw(){S.shadow(ctx,861,601,8);R(ctx,854,590,14,11,'#b98d53');R(ctx,855,591,12,8,'#d8b577');R(ctx,857,587,8,4,'#624d3e');R(ctx,859,589,4,2,'#b7a582');R(ctx,860,593,2,6,'#735a43');R(ctx,860,594,2,2,'#e4d4a2')}});render.sort((a,b)=>a.y-b.y).forEach(o=>o.draw());combatView.overlay(ctx);CityTime.draw(ctx,cityTime,{camera,width:canvas.width,height:canvas.height,lamps:streetProps.filter(o=>o.name==='lamp').map(o=>({x:o.x+2,y:o.foot-4})),buildings});ctx.restore();const m=$('map').getContext('2d'),s=144/SIZE;m.fillStyle='#8a9885';m.fillRect(0,0,144,144);R(m,390*s,0,210*s,144,'#35484e');R(m,0,395*s,144,100*s,'#35484e');buildings.forEach(b=>R(m,b.x*s,b.y*s,b.w*s,b.h*s,'#c0b395'));R(m,p.x*s-2,p.y*s-2,4,4,'#fff6ca');const at=activities.target();if(at)R(m,at.x*s-3,at.y*s-3,6,6,'#8fcabb');const goal=state.mission===1?{x:860,y:600}:npcs[0];if(state.mission!==3)R(m,goal.x*s-2,goal.y*s-2,4,4,'#e19b64');transitionOverlay()}
 function frame(now){const elapsed=last?Math.min(.1,(now-last)/1000):0;last=now;if(active&&!paused&&!document.hidden){p.gesture=Math.max(0,(p.gesture||0)-elapsed);p.emotion=Math.max(0,p.emotion-elapsed);acc+=elapsed;while(acc>=1/60){tick(1/60);acc-=1/60}draw()}else acc=0;requestAnimationFrame(frame)}
 addEventListener('keydown',e=>{
  const k=e.key.length===1?e.key.toLowerCase():e.key;
  if(homeView.opened){if(k==='Escape'){e.preventDefault();homeView.close()}return;}
  if(!$('dialog').hidden){
-  if(['service','activityAction'].includes(e.target.id)&&['Enter',' '].includes(k))return;
+  if(['service','activityAction','fleetSedan','fleetMotorcycle','fleetVan'].includes(e.target.id)&&['Enter',' '].includes(k))return;
   if(['e','Enter',' ','Escape'].includes(k)){e.preventDefault();if(!e.repeat)closeDialog();}
   return;
  }
@@ -117,6 +122,7 @@ $('interact').onclick=()=>{if(!$('dialog').hidden)closeDialog();else interact()}
 $('weapon').onclick=changeWeapon;
 $('service').onclick=()=>{if(interiorService&&rooms.current?.id==='store'){const result=CityResidents.service({kind:'vendor'},{player:p,state,combat});$('dialogText').textContent=result.text;$('service').hidden=true;save();hud();return}if(!activeResident||$('dialog').hidden||distance(p,activeResident)>52)return;const result=CityResidents.service(activeResident,{player:p,state,combat});$('dialogText').textContent=result.text;$('service').hidden=true;if(result.ok){beep();save()}hud()};
 $('activityAction').onclick=()=>{if(!activeResident||$('dialog').hidden||distance(p,activeResident)>52)return;const id=Object.keys(CityActivities.jobs).find(id=>CityActivities.jobs[id].npc===activeResident.kind);if(!id)return;const done=activities.finish(id);if(done){closeDialog();combatView.show('동네 일 완료 · '+CityActivities.jobs[id].reward+'원');}else if(activities.start(id)){closeDialog();combatView.show(CityActivities.jobs[id].name+' · 지도와 현장 표시를 따라가.');}else $('dialogText').textContent=activities.label(id);save();hud()};
+for(const [id,type]of [['fleetSedan','sedan'],['fleetMotorcycle','motorcycle'],['fleetVan','van']])$(id).onclick=()=>{if(rooms.current?.id!=='garage'||$('dialog').hidden)return;const ok=fleet.recall(type,CityInteriors.rooms.garage.door);if(ok){car=fleet.active;save();beep()}$('dialogText').textContent=ok?CityVehicles.types[type].name+' 준비 완료 · 차고 밖에서 E로 탑승해.':'차고 앞이 막혀 있어. 다른 차량을 옮긴 뒤 다시 시도해줘.';hud()};
 $('cancelActivity').onclick=()=>{activities.cancel();save();hud()};
 $('restartMission').onclick=()=>{state.mission=0;save();pause(false);hud()};
 $('dayLength').onchange=()=>{cityTime.setDayMinutes(+$('dayLength').value);save()};
@@ -126,5 +132,5 @@ $('stick').onpointerdown=e=>{e.preventDefault();if(stickPointer!==null)return;st
 let attackPointer=null;
 $('attack').onpointerdown=e=>{e.preventDefault();if(attackPointer!==null)return;attackPointer=e.pointerId;keys.attack=true;attack();try{$('attack').setPointerCapture(e.pointerId)}catch{}};
 for(const ev of ['pointerup','pointercancel','lostpointercapture'])$('attack').addEventListener(ev,e=>{if(e.pointerId===attackPointer){attackPointer=null;keys.attack=false}});
-restore();resize();camera.x=cameraAxis(p.x-canvas.width/2,mapSize().w,canvas.width);camera.y=cameraAxis(p.y-canvas.height/2,mapSize().h,canvas.height);hud();draw();requestAnimationFrame(frame);if(['localhost','127.0.0.1'].includes(location.hostname))window.cityTest={p,car,state,npcs,keys,joy,camera,blocked,move,tick,interact,vehicle,save,restore,draw,art:S,ground,combat,enemies,attack,changeWeapon,activities,cityTime,rooms,home,homeView,pause,get active(){return active},get sprintEnabled(){return sprintEnabled},get zoom(){return zoom}};
+restore();resize();camera.x=cameraAxis(p.x-canvas.width/2,mapSize().w,canvas.width);camera.y=cameraAxis(p.y-canvas.height/2,mapSize().h,canvas.height);hud();draw();requestAnimationFrame(frame);if(['localhost','127.0.0.1'].includes(location.hostname))window.cityTest={p,get car(){return car},fleet,state,npcs,keys,joy,camera,blocked,move,tick,interact,vehicle,save,restore,draw,art:S,ground,combat,enemies,attack,changeWeapon,activities,cityTime,rooms,home,homeView,pause,get active(){return active},get sprintEnabled(){return sprintEnabled},get zoom(){return zoom}};
 })();

diff --git a/dist/city-vehicles.js b/dist/city-vehicles.js
@@ -1,0 +1,28 @@
+'use strict';
+(function(root,factory){const api=factory();if(typeof module==='object'&&module.exports)module.exports=api;else root.CityVehicles=api;})(globalThis,()=>{
+ // Sedan values exactly retain the original controller. Other types share the
+ // integration, but use different acceleration, top speed, steering and footprint.
+ const types={sedan:{name:'남빛 세단',art:'sedan',accel:110,max:155,reverse:50,turn:1.65,radius:30,w:34,h:58},motorcycle:{name:'시티 바이크',art:'motorcycle',accel:185,max:195,reverse:42,turn:2.2,radius:22,w:21,h:46},van:{name:'배달 밴',art:'van',accel:78,max:125,reverse:38,turn:1.2,radius:34,w:36,h:60}};
+ const starts={sedan:{x:445,y:320,a:0},motorcycle:{x:548,y:345,a:0},van:{x:520,y:1000,a:0}};
+ function create({sedan,blocked}){let cars=[],activeId='sedan';
+  const radius=c=>types[c.type].radius;
+  const overlap=(x,y,r,ignore)=>cars.some(c=>c!==ignore&&Math.hypot(x-c.x,y-c.y)<r+radius(c)+2);
+  const free=(x,y,r,ignore)=>!blocked(x,y,r)&&!overlap(x,y,r,ignore);
+  function find(pos,r,ignore){for(const [dx,dy]of[[0,0],[70,0],[-70,0],[0,70],[0,-70],[140,0],[-140,0],[0,140],[0,-140]])if(free(pos.x+dx,pos.y+dy,r,ignore))return{x:pos.x+dx,y:pos.y+dy};return null}
+  const api={types,get cars(){return cars},get active(){return cars.find(c=>c.id===activeId)||cars[0]},
+   select(id){const c=cars.find(c=>c.id===id);if(!c)return false;activeId=id;return c},
+   nearest(p){return cars.filter(c=>Math.hypot(c.x-p.x,c.y-p.y)<radius(c)+35).sort((a,b)=>Math.hypot(a.x-p.x,a.y-p.y)-Math.hypot(b.x-p.x,b.y-p.y))[0]},
+   obstructed:overlap,
+   motion(c,throttle,steer,dt){const t=types[c.type];c.speed+=throttle*t.accel*dt;c.speed*=Math.exp(-(throttle?.65:2.8)*dt);c.speed=Math.max(-t.reverse,Math.min(t.max,c.speed));c.a=(c.a+steer*Math.max(.24,Math.abs(c.speed)/115)*t.turn*dt*(c.speed<0?-1:1))%(Math.PI*2);return{dx:Math.sin(c.a)*c.speed*dt,dy:-Math.cos(c.a)*c.speed*dt}},
+   exitCandidates(c){const r=radius(c)+13;return[[1,0],[-1,0],[0,1],[0,-1],[1,1],[-1,1],[1,-1],[-1,-1]].map(([x,y])=>({x:c.x+x*r,y:c.y+y*r}))},
+   recall(id,door){const c=cars.find(c=>c.id===id);if(!c)return false;const pos=find({x:door.x,y:door.y+66},radius(c),c);if(!pos)return false;Object.assign(c,pos,{speed:0,a:0});activeId=id;return true},
+   save(){return{selected:activeId,cars:cars.map(({id,type,x,y,a})=>({id,type,x,y,a}))}},
+   load(s,legacy){cars=[];for(const id of Object.keys(types)){const q=Array.isArray(s?.cars)?s.cars.find(c=>c?.id===id):null,old=id==='sedan'?legacy:null,raw=q&&Number.isFinite(q.x+q.y+q.a)&&!blocked(q.x,q.y,types[id].radius)?q:old||starts[id],r=types[id].radius;
+     const valid=Number.isFinite(raw?.x+raw?.y+raw?.a)&&!blocked(raw.x,raw.y,r),pos=valid?find(raw,r):null,fallback=pos||find(starts[id],r);if(!fallback)continue;
+     const c=id==='sedan'&&sedan?sedan:{};Object.assign(c,{...fallback,id,type:id,a:pos&&Number.isFinite(raw.a)?raw.a%(Math.PI*2):0,speed:0});cars.push(c);
+    }activeId=cars.some(c=>c.id===s?.selected)?s.selected:'sedan';}
+  };api.load(null,sedan);return api;
+ }
+ function draw(ctx,c,S,driving=false){const t=types[c.type],im=S.images[t.art];ctx.save();ctx.translate(Math.round(c.x),Math.round(c.y));ctx.rotate(c.a);S.shadow(ctx,0,4,t.w*.55);ctx.drawImage(im,-t.w/2,-t.h/2,t.w,t.h);if(driving&&c.type==='motorcycle')ctx.drawImage(S.action(0,2),-12,-16,24,29);ctx.restore()}
+ return{types,create,draw};
+});

diff --git a/dist/city.html b/dist/city.html
@@ -30,6 +30,7 @@
   <div id="dialog" role="dialog" aria-modal="true" aria-labelledby="dialogHeading" aria-describedby="dialogText" hidden>
     <div class="dialog-heading" id="dialogHeading"><span class="dialog-indicator">◆</span> 남빛동 이야기 <small>CONVERSATION</small></div>
     <p id="dialogText"></p><button id="service" type="button" hidden></button><button id="activityAction" type="button" hidden></button>
+    <div class="fleet-choices"><button id="fleetSedan" type="button" hidden>세단 · 균형</button><button id="fleetMotorcycle" type="button" hidden>바이크 · 민첩</button><button id="fleetVan" type="button" hidden>배달 밴 · 안정</button></div>
     <div class="dialog-footer"><span>대화 계속하기</span><button id="ok" type="button">확인 <kbd>E ↵</kbd></button></div>
   </div>
   <div id="pause" hidden>
@@ -63,6 +64,6 @@
   </div>
   <script src="city-art.js"></script><script src="city-scene.js"></script><script src="city-sprites.js"></script>
   <script src="city-ground.js"></script><script src="city-combat.js"></script><script src="city-combat-view.js"></script>
-  <script src="city-home.js"></script><script src="city-home-view.js"></script><script src="city-interiors.js"></script><script src="city-time.js"></script><script src="city-residents.js"></script><script src="city-activities.js"></script><script src="city.js"></script><script src="child-nav.js"></script>
+  <script src="city-vehicles.js"></script><script src="city-home.js"></script><script src="city-home-view.js"></script><script src="city-interiors.js"></script><script src="city-time.js"></script><script src="city-residents.js"></script><script src="city-activities.js"></script><script src="city.js"></script><script src="child-nav.js"></script>
 </body>
 </html>

diff --git a/dist/city-world.css b/dist/city-world.css
@@ -10,3 +10,4 @@
 #homeStatus{min-height:42px;font-size:11px!important;line-height:1.7!important;margin:10px 0!important;color:#e8d7a6!important}
 #homeEditor #homeClose{width:100%;background:#3d6258}
 @media(max-height:510px){#homeEditor article{width:460px;display:grid;grid-template-columns:1fr 1fr;column-gap:12px}#homeEditor small,#homeHeading{grid-column:span 2}#homeEditor #homePlan{grid-column:1;grid-row:3/span 4}.decor-catalog,.decor-adjust,#homeStatus,#homeClose{grid-column:2}#homeEditor h2{margin:4px 0}#homeEditor .decor-adjust{flex-wrap:wrap}}
+#dialog .fleet-choices{display:flex;gap:6px;flex-wrap:wrap}#dialog .fleet-choices button{float:none;flex:1;font-size:12px;margin:4px 0;background:#3d5c62}#dialog .fleet-choices button[hidden]{display:none}

diff --git a/docs/GTW-WORLD-HANDOFF.md b/docs/GTW-WORLD-HANDOFF.md
@@ -71,3 +71,23 @@ GTW browser suites;8765 for other games. Never force push/reset user changes.
   Captures opened; crisp small sprites but indoor floor and lighting deliberately simple.
 - Editor pauses simulation, clears movement on open/close; garage NPCs not duplicated.
   No vehicle collection selection yet; next E shared fleet and garage selection UI.
+
+## E. Fleet checkpoint
+- Shared CityVehicles type table/controller: original sedan accel110/max155/turn1.65/
+  radius30 unchanged; motorcycle185/195/2.2/r22; delivery van78/125/1.2/r34.
+- Three non-overlapping parked vehicles; swept collisions against world and parked
+  cars,8 exit candidates,car selection/recall from garage with safe exterior placement.
+  Legacy car field ALWAYS remains sedan; optional vehicles adds all3 and selection.
+  Invalid vehicle entries fall back safely; old combat/money/mission keys preserved.
+- Existing van PNG reused; motorcycle from prepared source. Rider reuses a crouch pose
+  (not a newly drawn full riding animation). Interior returns also check parked cars.
+- PASS vehicles-unit/browser (3 actual keyboard types,real CDP two-finger van controls),
+  city.cjs,combat-browser,residents-browser,activities-browser,home-browser,runtime.
+- Failures investigated/fixed: van-specific slower acceleration needed a matching
+  movement assertion (observed31-33speed vs sedan47-49 after0.5s); combat test's temporary
+  car fixture must be restored because cars now obstruct melee sight; real regression
+  store door intercepted supply pickup -> active pickup now takes priority over entry.
+- Night-rest actors now use idle pose,not their last walking contact. Fleet buttons
+  support Enter without closing dialogue prematurely. No deployment.
+- Next F: old/backup save fixtures,transition/input/exit edge cases,all-mode regressions
+  and final screenshots. Current verified local changes saved at this checkpoint.
